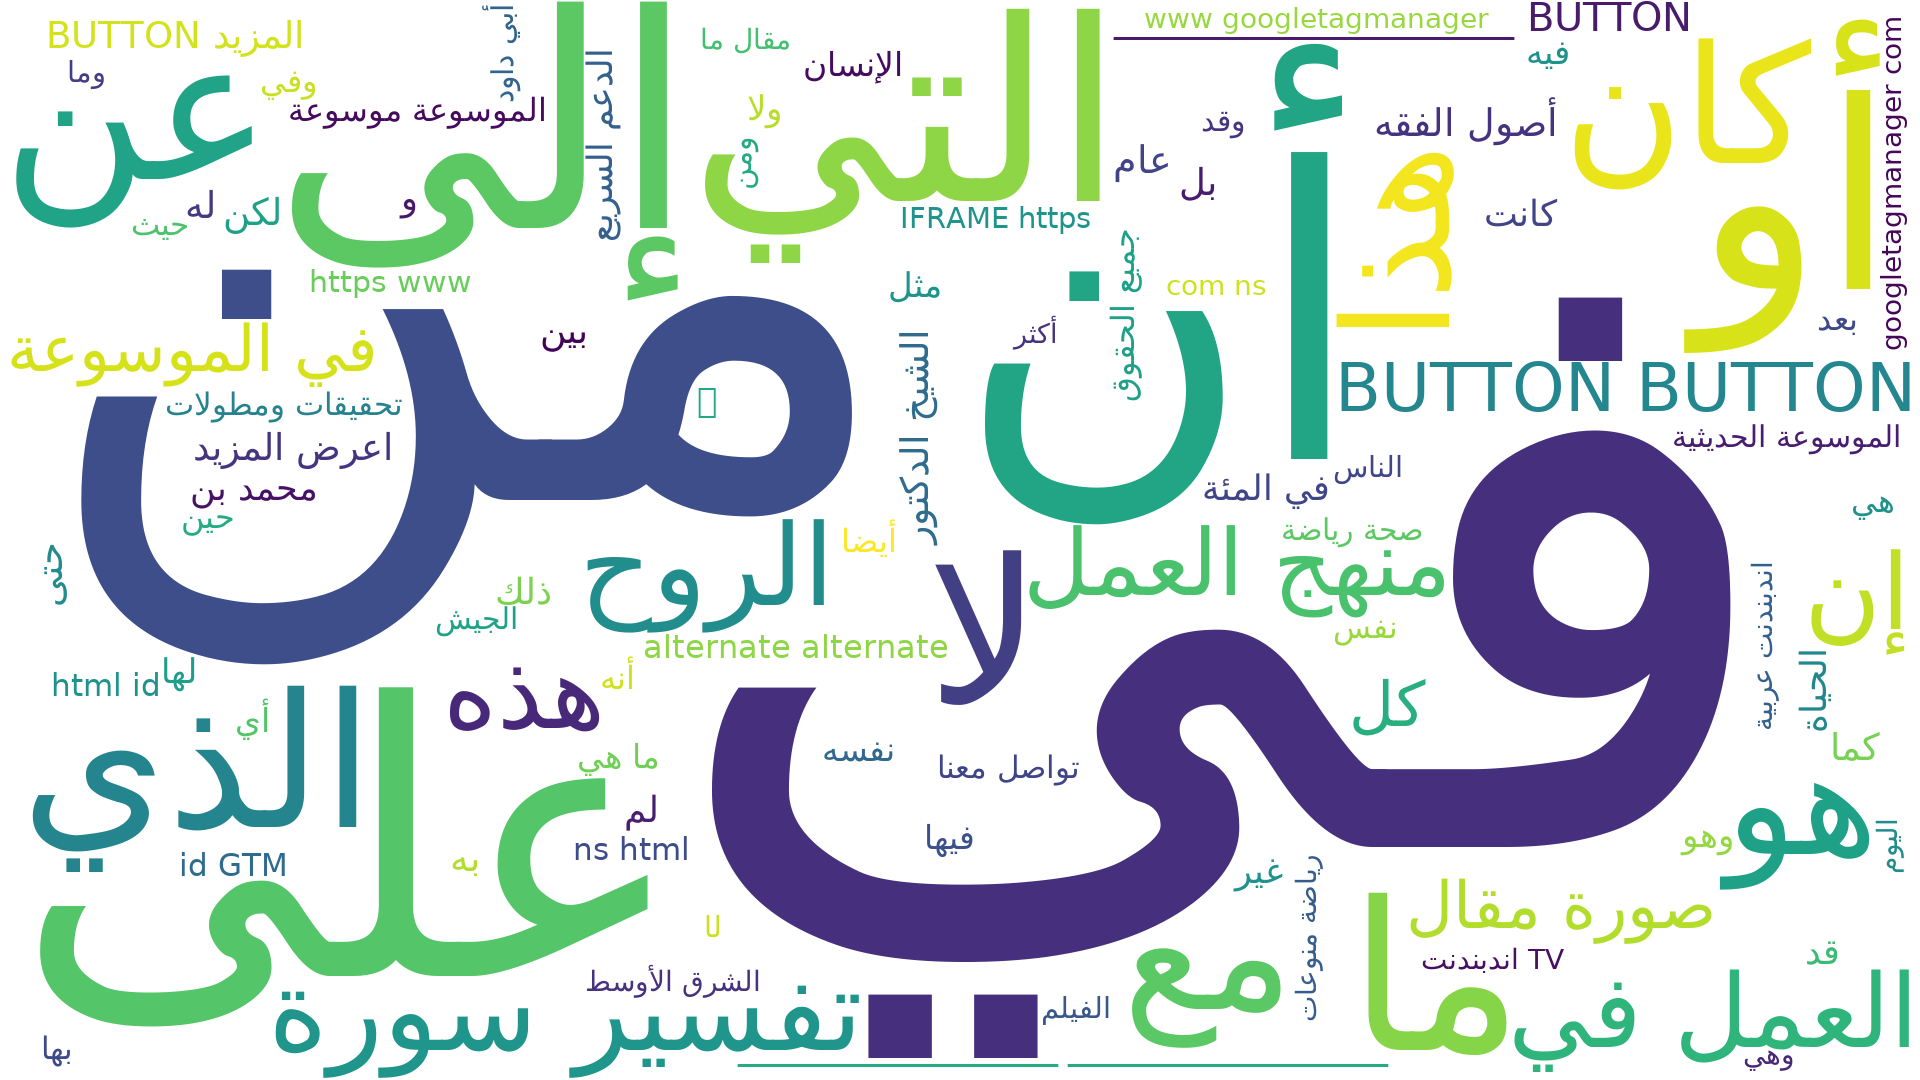
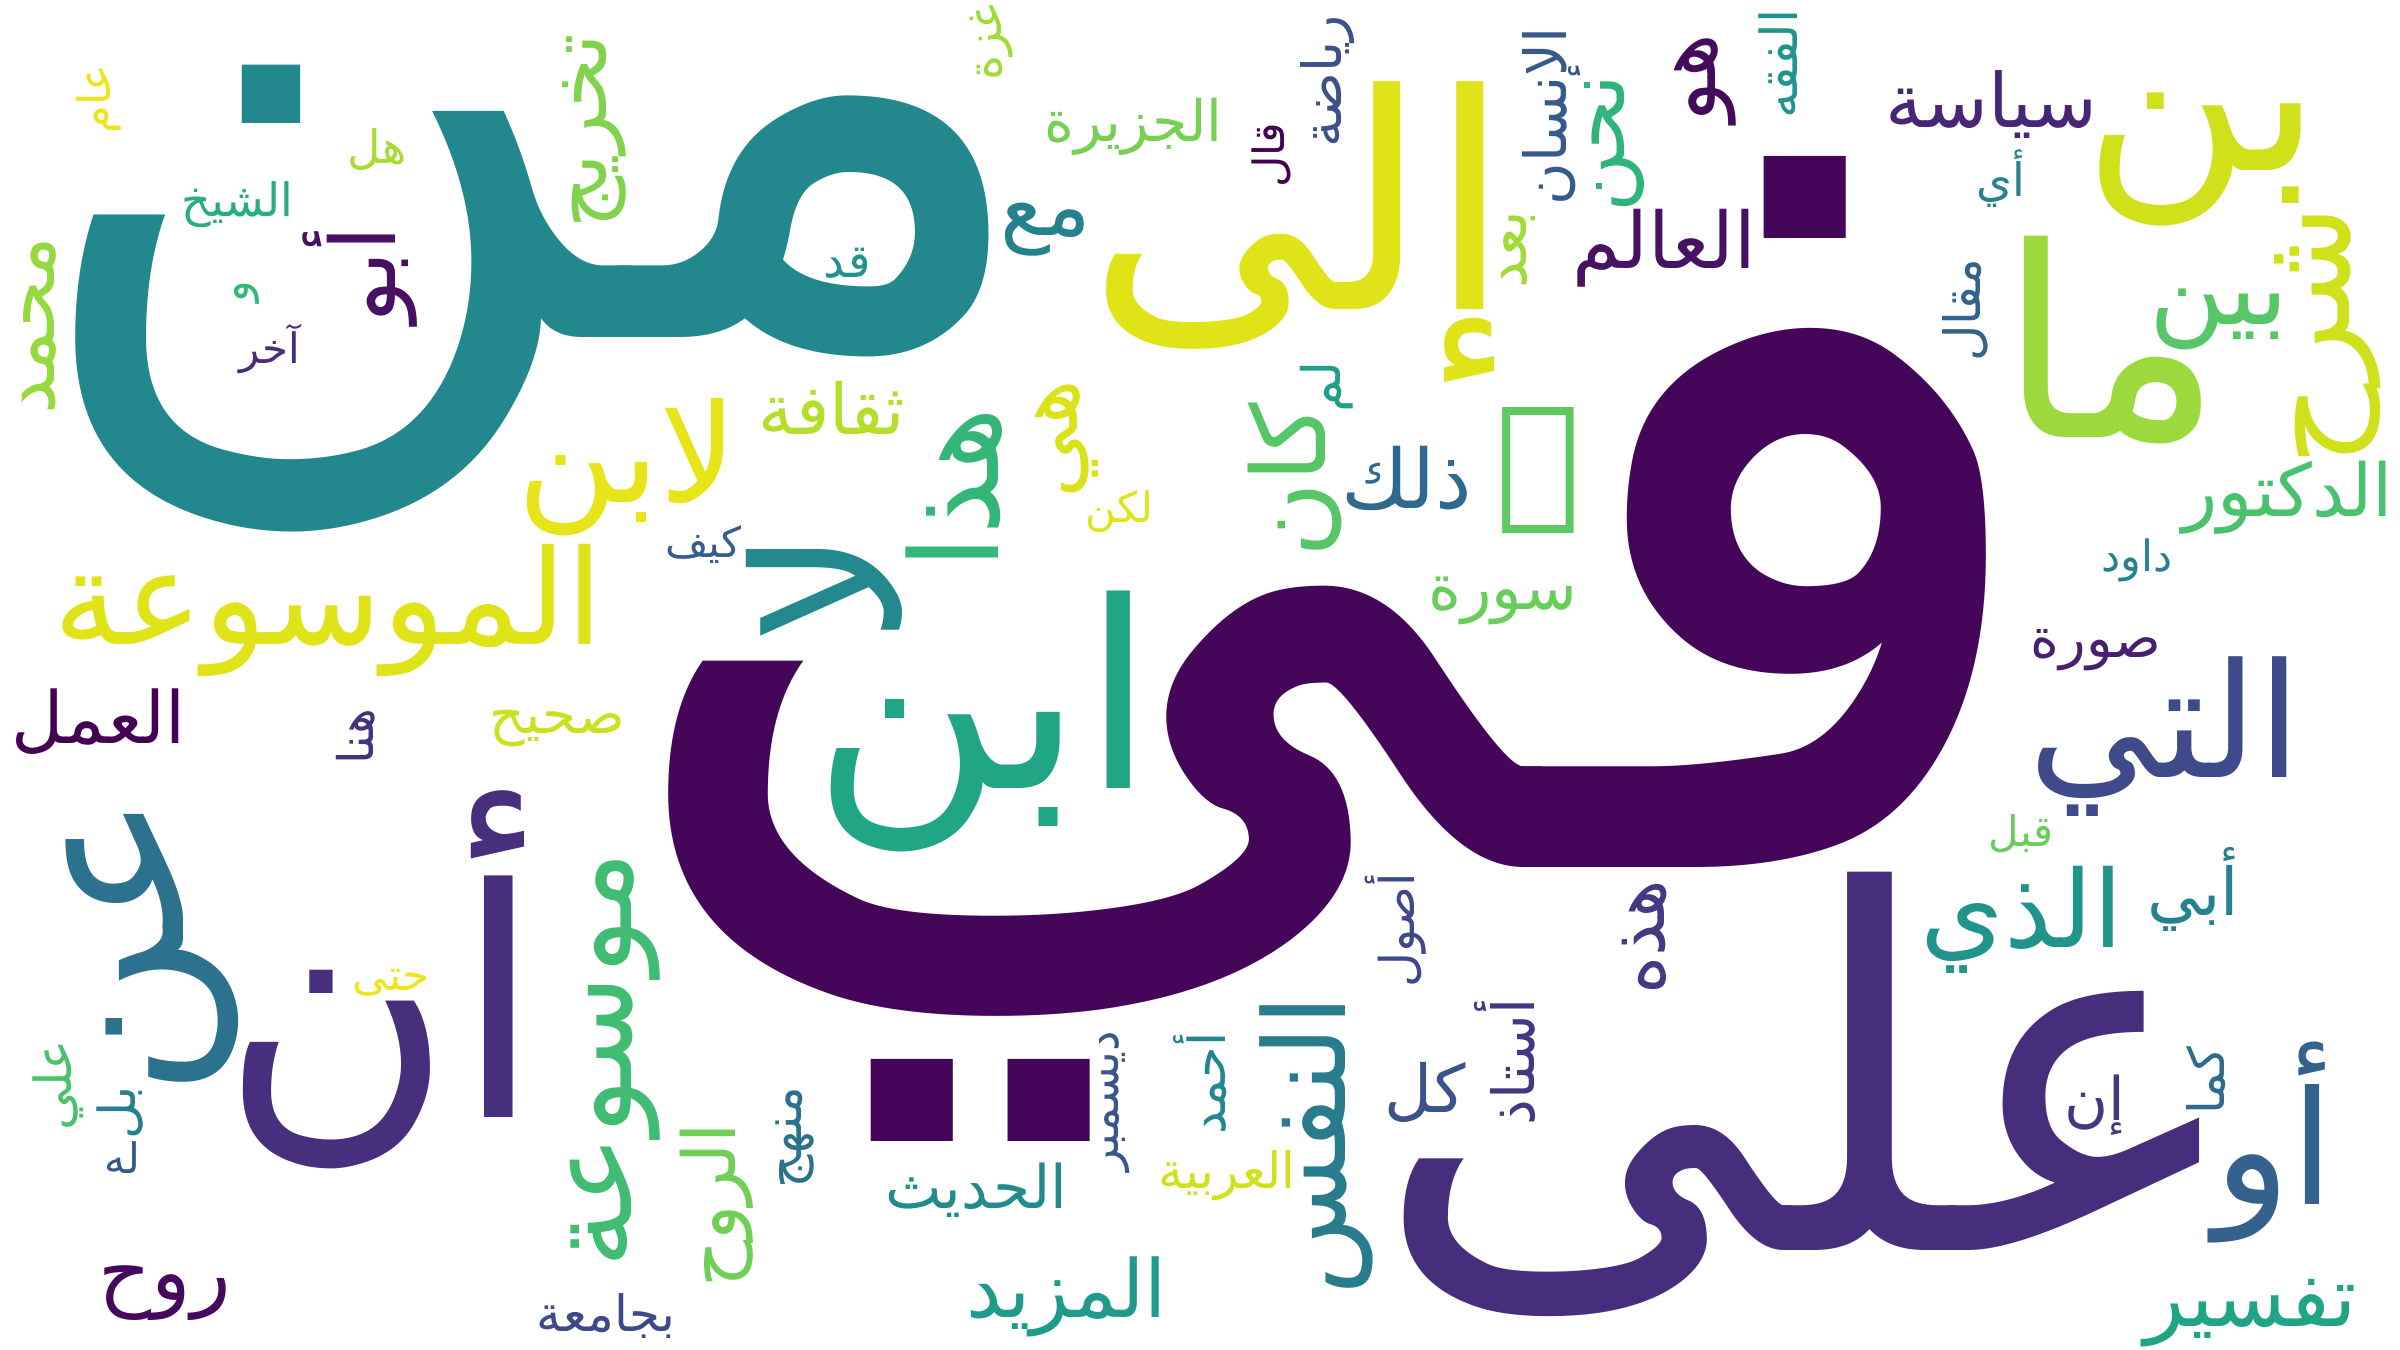
toujours pas satisfaite du résultat du nuage de mot

diff --git a/programmes/generer_nuage.py b/programmes/generer_nuage.py
@@ -2,12 +2,11 @@
 # -*- coding: utf-8 -*-
 
 """
-Génère un nuage de mots depuis corpus-arabe.txt
+Génère un nuage de mots depuis corpus-arabe.txt - VERSION PROPRE
 """
 
-import sys
+import re
 from wordcloud import WordCloud
-import matplotlib.pyplot as plt
 import arabic_reshaper
 from bidi.algorithm import get_display
 
@@ -15,95 +14,122 @@ print("=" * 50)
 print("Génération du nuage de mots arabe")
 print("=" * 50)
 
-# Lire le fichier texte
+# Lire le fichier
 print("\n1. Lecture du corpus...")
-with open('nuages/corpus-arabe.txt', 'r', encoding='utf-8', errors= 'ignore') as f:
+with open('nuages/corpus-arabe.txt', 'r', encoding='utf-8', errors='ignore') as f:
     texte = f.read()
 
 print(f"   ✓ {len(texte)} caractères chargés")
-print(f"   ✓ {len(texte.split())} mots environ")
 
-# Mots vides à exclure (MAIS PAS روح et نفس !)
-mots_vides = [
+# SUPER NETTOYAGE
+print("\n2. Nettoyage du texte...")
+
+# Supprimer tout ce qui est HTML/web
+texte = re.sub(r'<[^>]+>', '', texte)  # Balises HTML
+texte = re.sub(r'https?://[^\s]+', '', texte)  # URLs
+texte = re.sub(r'www\.[^\s]+', '', texte)  # www.
+texte = re.sub(r'\b[A-Z]{2,}\b', '', texte)  # Mots en MAJUSCULES (BUTTON, IFRAME, etc.)
+texte = re.sub(r'\bhtml\b|\bHTM\b|\bcom\b|\borg\b|\bnet\b', '', texte, flags=re.IGNORECASE)
+texte = re.sub(r'\d+', '', texte)  # Nombres
+texte = re.sub(r'[^\u0600-\u06FF\s]', ' ', texte)  # Garder SEULEMENT l'arabe et espaces
+
+print(f"   ✓ Texte nettoyé: {len(texte)} caractères")
+
+# Liste EXHAUSTIVE de mots vides arabes
+mots_vides = {
     # Articles et prépositions
     'في', 'من', 'إلى', 'على', 'عن', 'مع', 'عند', 'أمام', 'خلف', 'فوق', 'تحت',
     'بين', 'ضد', 'حول', 'دون', 'سوى', 'خلا', 'عدا', 'حاشا', 'منذ', 'بعد', 'قبل',
+    'تحت', 'فوق', 'أسفل', 'أعلى', 'وراء', 'خارج', 'داخل', 'لدى', 'إزاء',
     
     # Conjonctions
     'و', 'أو', 'لكن', 'بل', 'حتى', 'إذ', 'إذا', 'لو', 'لولا', 'كأن', 'ف', 'ثم',
+    'إن', 'أن', 'لأن', 'كي', 'لكي', 'حين', 'عندما', 'بينما', 'إذ', 'إذا',
     
     # Pronoms
-    'أن', 'ما', 'لا', 'هذا', 'هذه', 'ذلك', 'تلك', 'هؤلاء', 'أولئك',
-    'هو', 'هي', 'هم', 'هن', 'أنا', 'نحن', 'أنت', 'أنتم', 'أنتن', 'هما',
+    'ما', 'لا', 'هذا', 'هذه', 'ذلك', 'تلك', 'هؤلاء', 'أولئك', 'هذان', 'هاتان',
+    'هو', 'هي', 'هم', 'هن', 'أنا', 'نحن', 'أنت', 'أنتم', 'أنتن', 'هما', 'أنتما',
+    'ي', 'ك', 'ه', 'نا', 'كم', 'هم', 'هن',
     
-    # Articles définis avec prépositions
-    'ال', 'بال', 'لل', 'وال', 'فال', 'كال',
+    # Articles
+    'ال', 'بال', 'لل', 'وال', 'فال', 'كال', 'الى', 'اللي', 'اللى',
     
     # Mots relatifs
     'الذي', 'التي', 'اللذان', 'اللتان', 'الذين', 'اللاتي', 'اللواتي', 'اللذين',
+    'من', 'ما', 'مهما', 'أي', 'أية', 'متى', 'أين', 'أينما', 'حيث', 'حيثما',
     
-    # Adverbes et particules
-    'قد', 'لم', 'لن', 'لما', 'كان', 'يكون', 'كل', 'بعض', 'كثير', 'قليل',
-    'جدا', 'أيضا', 'كذلك', 'هكذا', 'هنا', 'هناك', 'أين', 'كيف', 'متى', 'لماذا',
-    'الآن', 'اليوم', 'أمس', 'غدا', 'دائما', 'أبدا', 'ربما', 'نعم', 'لا',
+    # Particules et adverbes
+    'قد', 'لم', 'لن', 'لما', 'ل', 'لل', 'ليس', 'ليست', 'لم', 'لن', 'إن', 'إنما',
+    'كل', 'بعض', 'كثير', 'قليل', 'عدة', 'عديد', 'جدا', 'أيضا', 'كذلك', 'هكذا',
+    'هنا', 'هناك', 'هنالك', 'ثم', 'ثمة', 'الآن', 'حينئذ', 'عندئذ',
+    'جدا', 'كثيرا', 'قليلا', 'أحيانا', 'دائما', 'أبدا', 'غالبا', 'ربما', 'لعل',
+    'نعم', 'كلا', 'بلى', 'أجل', 'حقا', 'فعلا', 'طبعا', 'بالطبع',
     
     # Verbes auxiliaires très courants
-    'كان', 'يكون', 'أصبح', 'أضحى', 'ظل', 'بات', 'صار', 'ليس', 'مازال', 'كانت',
-    'يكن', 'تكون', 'أكون', 'نكون', 'يصبح', 'تصبح',
+    'كان', 'كانت', 'كانوا', 'يكون', 'تكون', 'أكون', 'نكون', 'يكن', 'تكن',
+    'أصبح', 'تصبح', 'يصبح', 'أضحى', 'ظل', 'بات', 'صار', 'مازال', 'ما زال',
+    'ليس', 'ليست', 'ليسوا', 'أصبح', 'أمسى', 'بات', 'ظل', 'صار',
     
-    # Pronoms attachés et préfixes/suffixes
-    'له', 'لها', 'لهم', 'لهن', 'به', 'بها', 'بهم', 'بهن', 'لي', 'لك', 'لنا', 'لكم',
-    'منه', 'منها', 'منهم', 'منهن', 'مني', 'منك', 'منا', 'منكم',
-    'فيه', 'فيها', 'فيهم', 'فيهن', 'في', 'فيك', 'فينا', 'فيكم',
-    'عليه', 'عليها', 'عليهم', 'عليهن', 'علي', 'عليك', 'علينا', 'عليكم',
-    'إليه', 'إليها', 'إليهم', 'إليهن', 'إلي', 'إليك', 'إلينا', 'إليكم',
-    'أنه', 'أنها', 'أنهم', 'أنهن', 'أني', 'أنك', 'أننا', 'أنكم',
+    # Verbes très génériques
+    'يعد', 'تعد', 'يعتبر', 'تعتبر', 'يمكن', 'تمكن', 'يجب', 'تجب', 
+    'يقول', 'تقول', 'قال', 'قالت', 'ذكر', 'ذكرت', 'أشار', 'أشارت',
+    'أكد', 'أكدت', 'أوضح', 'أوضحت', 'بين', 'بينت', 'يرى', 'ترى', 'رأى',
+    'يجد', 'تجد', 'وجد', 'وجدت', 'يعرف', 'تعرف', 'عرف', 'عرفت',
     
-    # Mots anglais/latins courants
-    'and', 'the', 'of', 'to', 'in', 'a', 'is', 'for', 'on', 'with', 'by', 'at', 'from',
-    'that', 'this', 'as', 'it', 'or', 'are', 'be', 'was', 'an', 'we', 'you', 'all',
-    'can', 'has', 'had', 'but', 'not', 'they', 'have', 'been', 'one', 'their',
+    # Pronoms attachés
+    'له', 'لها', 'لهم', 'لهن', 'لهما', 'به', 'بها', 'بهم', 'بهن', 'بهما',
+    'لي', 'لك', 'لنا', 'لكم', 'بي', 'بك', 'بنا', 'بكم',
+    'منه', 'منها', 'منهم', 'منهن', 'منهما', 'مني', 'منك', 'منا', 'منكم',
+    'فيه', 'فيها', 'فيهم', 'فيهن', 'فيهما', 'في', 'فيك', 'فينا', 'فيكم',
+    'عليه', 'عليها', 'عليهم', 'عليهن', 'عليهما', 'علي', 'عليك', 'علينا', 'عليكم',
+    'إليه', 'إليها', 'إليهم', 'إليهن', 'إليهما', 'إلي', 'إليك', 'إلينا', 'إليكم',
+    'أنه', 'أنها', 'أنهم', 'أنهن', 'أنهما', 'أني', 'أنك', 'أننا', 'أنكم',
+    'ها', 'هي', 'هو', 'هما', 'هم', 'هن',
     
-    # Mots de navigation web (présents dans tes pages)
-    'home', 'menu', 'search', 'login', 'page', 'next', 'previous', 'click', 'here',
-    'read', 'more', 'back', 'top', 'share', 'print', 'email', 'loading',
+    # Mots génériques
+    'شيء', 'أشياء', 'شئ', 'أمر', 'أمور', 'جزء', 'أجزاء', 'نوع', 'أنواع',
+    'طريقة', 'طرق', 'كيفية', 'حالة', 'حالات', 'وضع', 'أوضاع',
     
-    # Chiffres et dates en arabe
+    # Mots de liaison
+    'أما', 'إما', 'بينما', 'رغم', 'مع', 'رغم', 'بالرغم', 'على الرغم',
+    'إذن', 'لذلك', 'لذا', 'إذا', 'حيث', 'بحيث', 'إذ', 'منذ',
+    
+    # Chiffres en lettres
     'واحد', 'اثنان', 'ثلاثة', 'أربعة', 'خمسة', 'ستة', 'سبعة', 'ثمانية', 'تسعة', 'عشرة',
+    'عشرون', 'ثلاثون', 'أربعون', 'خمسون', 'مئة', 'ألف', 'مليون',
     
-    # Mots très génériques
-    'يعد', 'تعد', 'يعتبر', 'تعتبر', 'يمكن', 'تمكن', 'يجب', 'تجب', 'يقول', 'تقول',
-    'قال', 'قالت', 'ذكر', 'ذكرت', 'أشار', 'أشارت', 'أكد', 'أكدت'
-]
+    # Mots courts non significatifs
+    'ان', 'لن', 'كن', 'لي', 'لك', 'هل', 'بل', 'عل', 'قل', 'فل',
+}
 
 # Remodeler pour l'arabe
-print("\n2. Préparation du texte arabe (RTL)...")
+print("\n3. Préparation du texte arabe (RTL)...")
 texte_reshape = arabic_reshaper.reshape(texte)
 texte_bidi = get_display(texte_reshape)
 
-# Créer le nuage
-print("\n3. Génération du nuage de mots...")
+# Créer le nuage avec paramètres optimisés
+print("\n4. Génération du nuage de mots...")
 wordcloud = WordCloud(
-    width=1920,
-    height=1080,
+    width=2400,
+    height=1350,
     background_color='white',
-    stopwords=set(mots_vides),
-    max_words=100,  # Moins de mots = plus gros
+    stopwords=mots_vides,
+    max_words=80,  # Encore moins de mots
     colormap='viridis',
     font_path='/usr/share/fonts/truetype/dejavu/DejaVuSans.ttf',
-    relative_scaling=0.8,  # Plus élevé = différence de taille plus grande
-    min_font_size=15  # Taille minimum plus grande
+    relative_scaling=1.0,  # Maximum ! Les mots fréquents seront ÉNORMES
+    min_font_size=20,
+    prefer_horizontal=0.7,
+    collocations=False  # Éviter les répétitions
 ).generate(texte_bidi)
+
 # Sauvegarder
-# Sauvegarder directement
-print("\n4. Sauvegarde de l'image...")
+print("\n5. Sauvegarde...")
 image = wordcloud.to_image()
 image.save('nuages/nuage-arabe.png')
 
 print("\n" + "=" * 50)
 print("✓ TERMINÉ !")
 print("=" * 50)
-print("\nFichiers créés:")
-print("  - nuages/corpus-arabe.txt (le texte)")
-print("  - nuages/nuage-arabe.png (l'image)")
+print("\nFichier créé: nuages/nuage-arabe.png")
 print()
